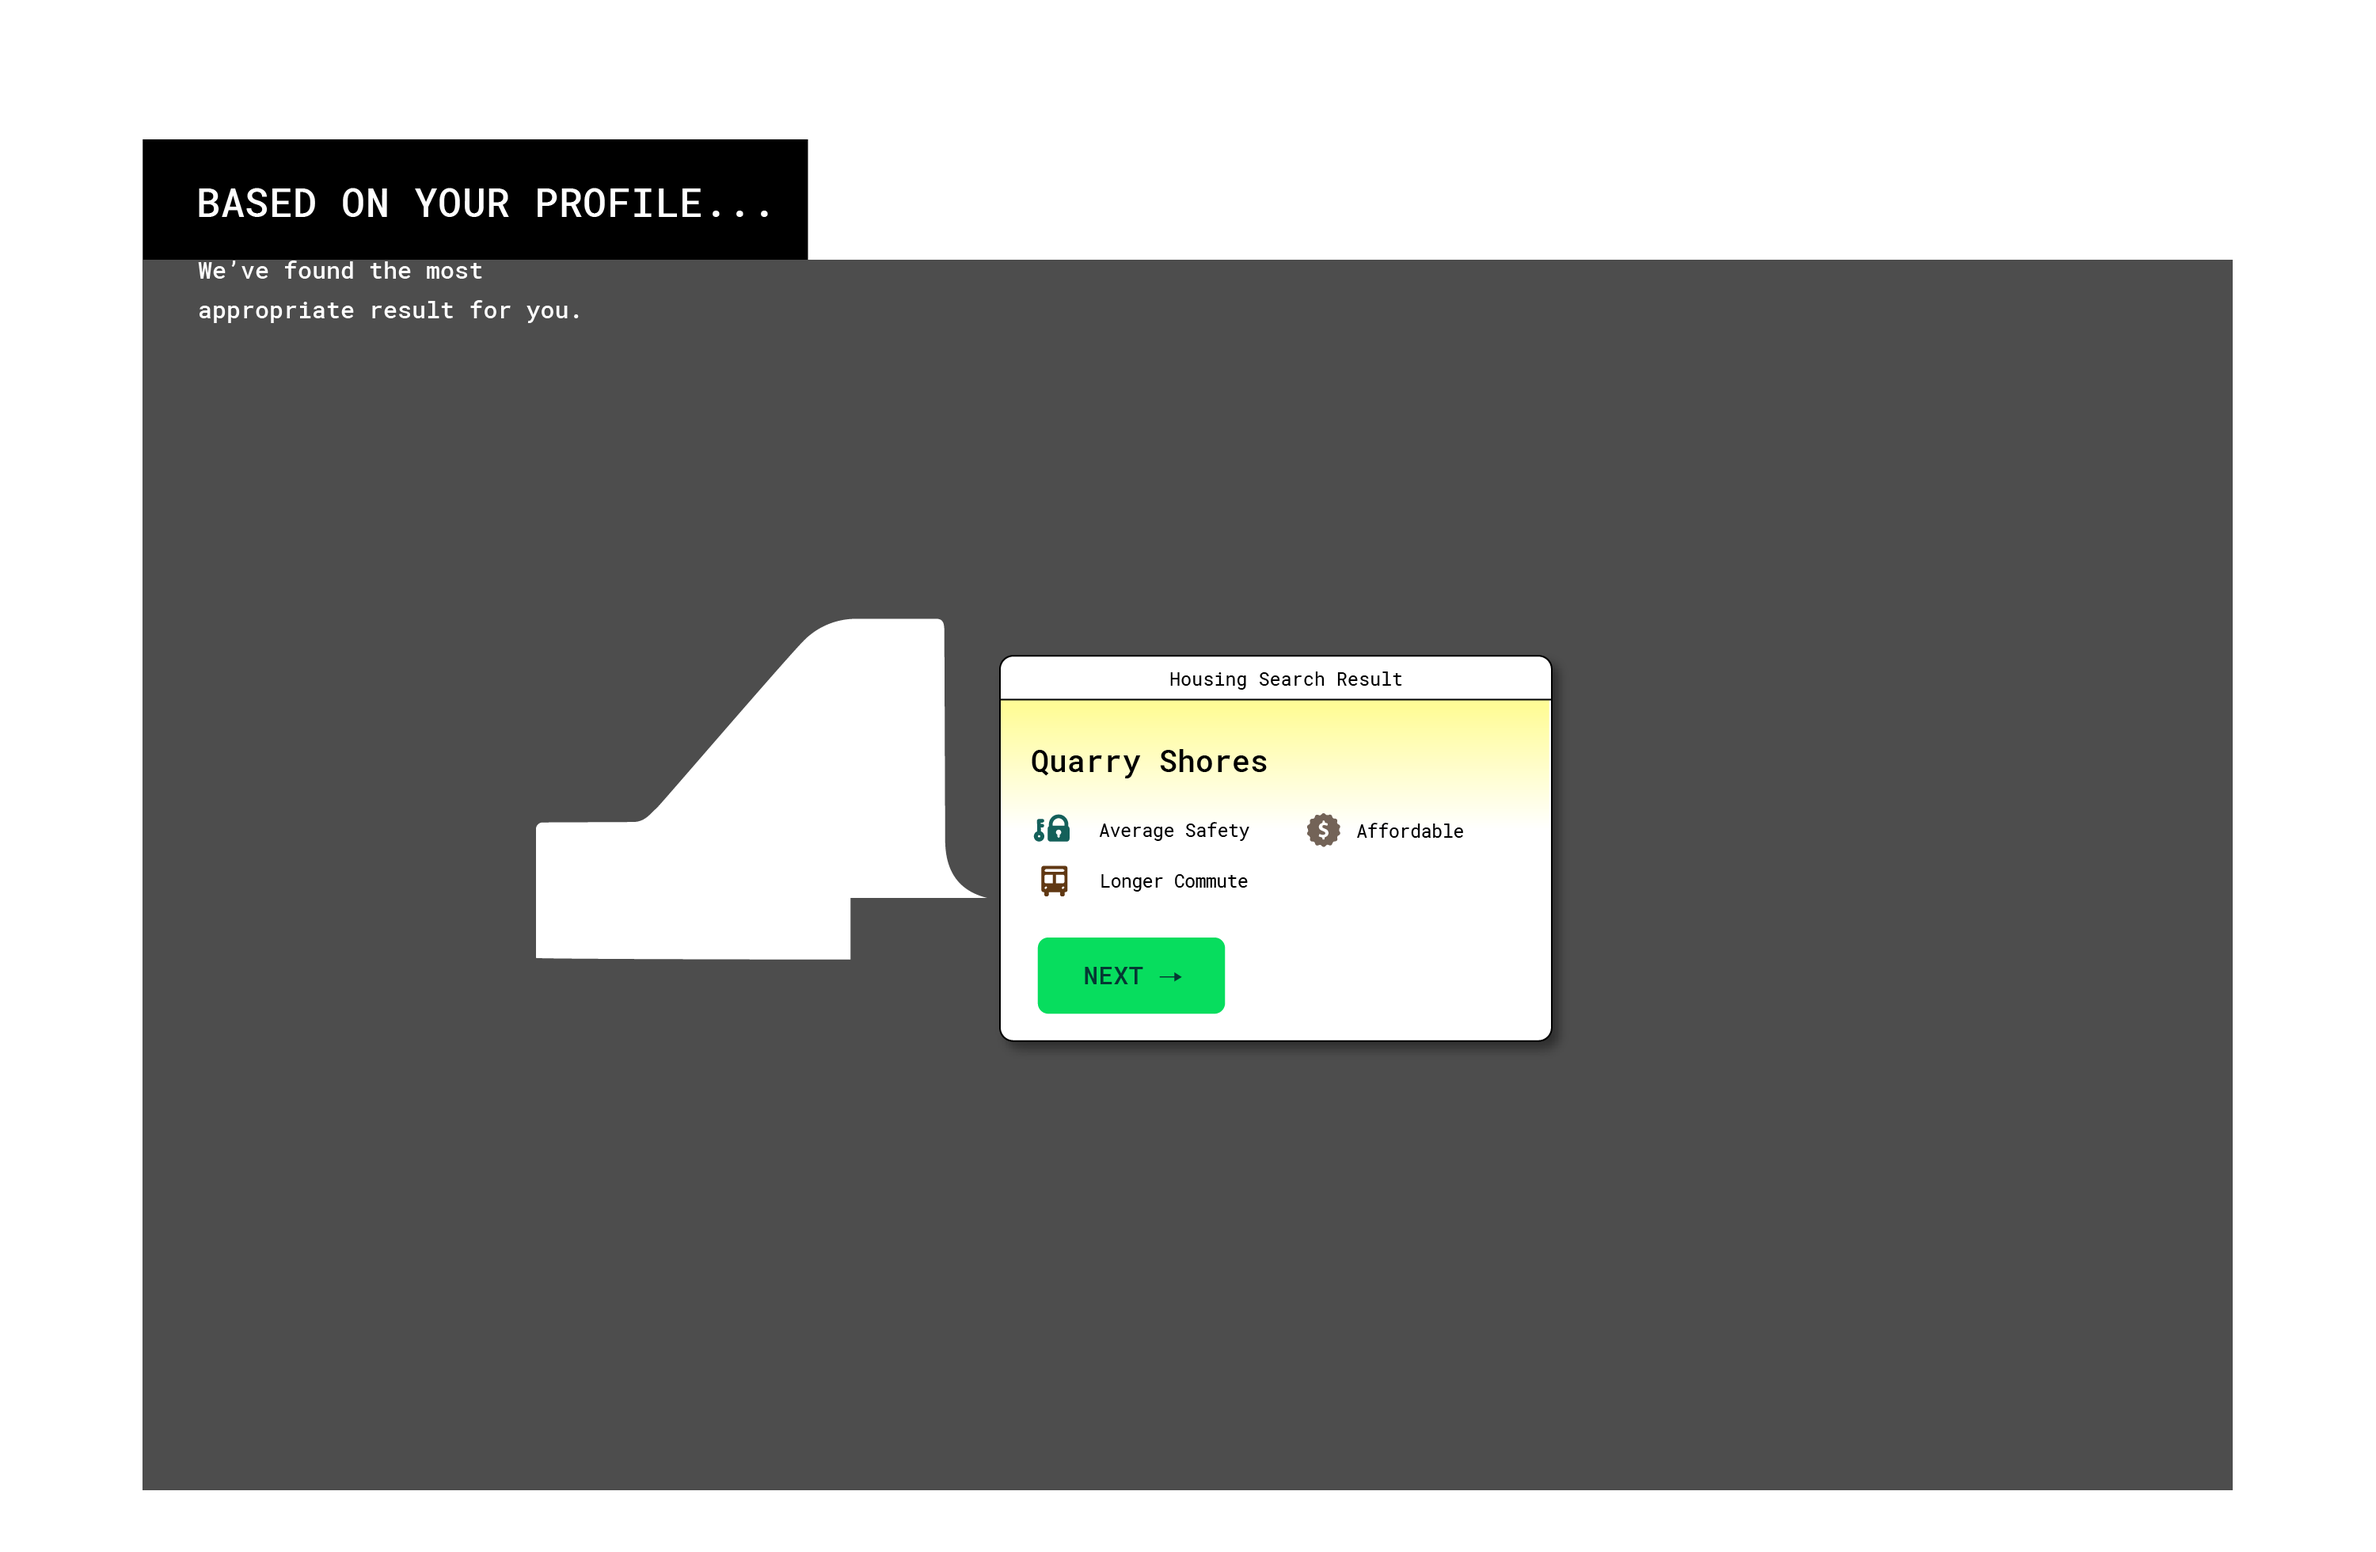
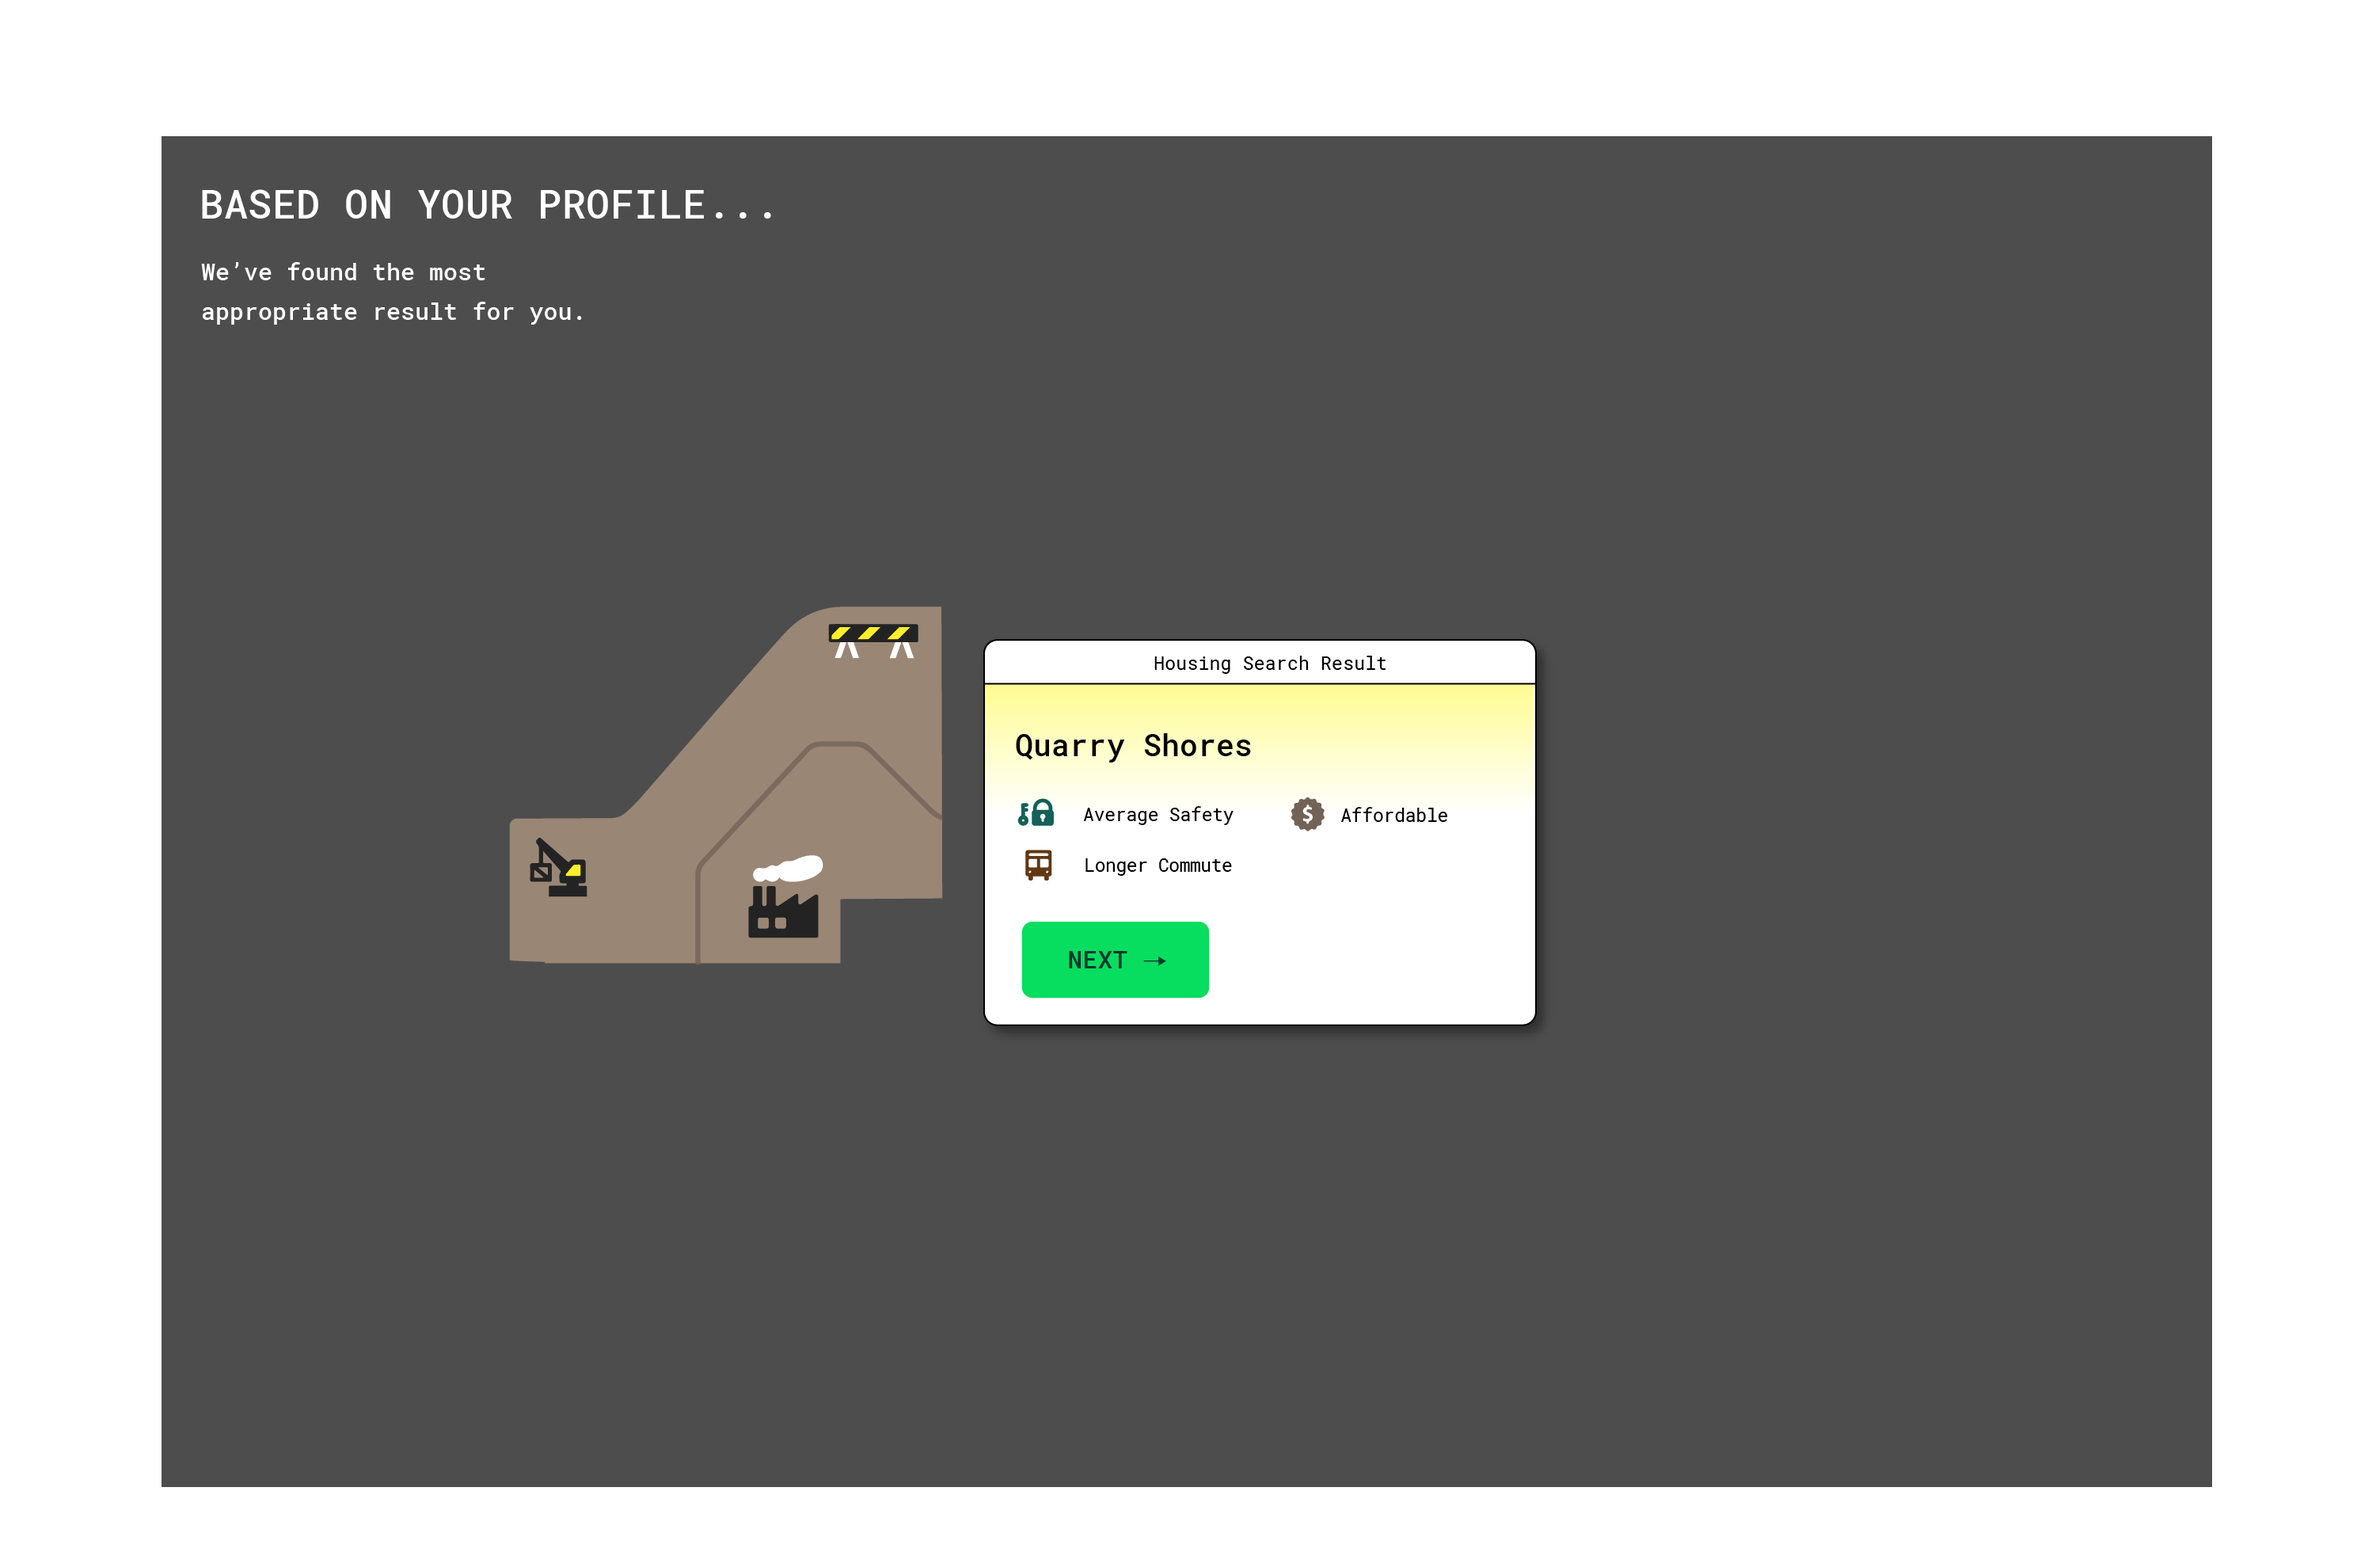
many files fixed to fit the tangible map

Changed region(s): [[0.062, 0.0622, 0.9607, 0.9648], [0.2169, 0.3735, 0.6818, 0.6847]]

diff --git a/public/assets/js/Profile.js b/public/assets/js/Profile.js
@@ -29,7 +29,7 @@ class Profile extends GenericScene {
       squish(`Tell us about yourself so we can give you
       the best possible search experience.`),
       width/2,
-      height/4 - 50
+      height/4 - 55
     );
 
     tint(255, 255);  // Display at FULL opacity
